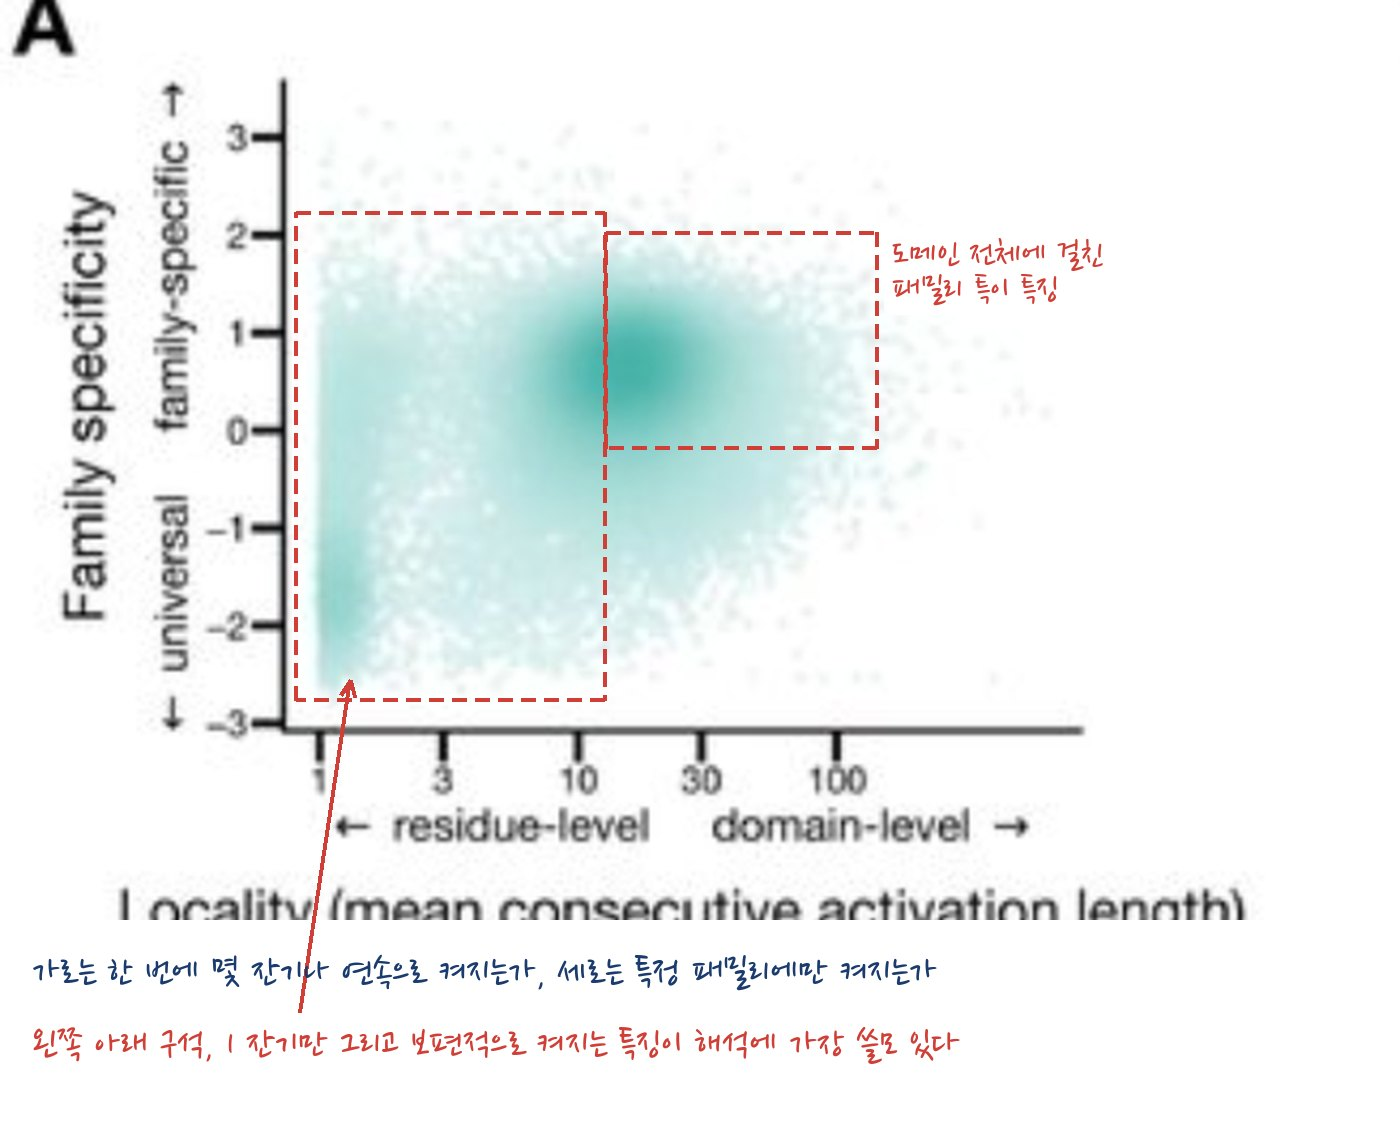
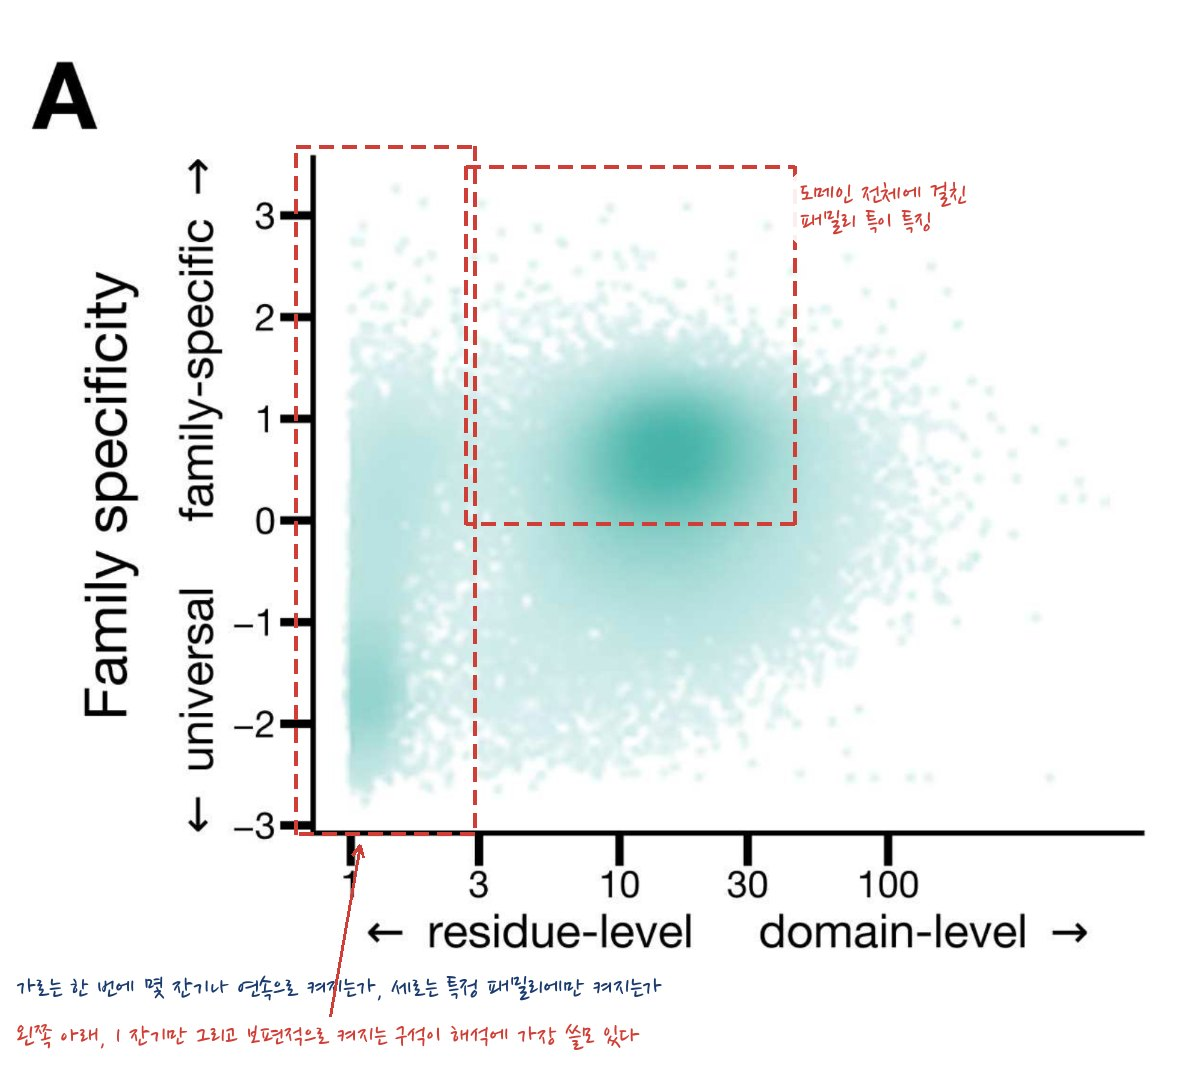
Re-capture the SAE figures from the PDF at higher resolution
The HTML page serves Figure 4 as a 988 px JPEG, which left panel labels and
structure detail soft. Captured the same panels from the PDF (page 11) in
Chrome's viewer at 400-500% instead, where the figure is still vector.

- Fig 4A, 4C, 4D re-rendered: 1200-1500 px of real detail, up from 340-990
- Fig 4E split into two figures (the P-loop ladder, and CAMK1 with the four
  families) so neither hits the 720 px height cap and shrinks
- annotations redrawn to match the new geometry

The workspace proxy blocks biorxiv.org, so the PDF was read in the browser
rather than downloaded.

Claude-Session: https://claude.ai/code/session_01WeuVKTz2XfxiKwtoJS4U2K

diff --git a/content/posts/_drafts/esmc-sae/tools/annot_pdf.py b/content/posts/_drafts/esmc-sae/tools/annot_pdf.py
@@ -1,0 +1,91 @@
+"""Annotate the high-resolution PDF captures for the SAE post."""
+import sys
+sys.path.insert(0, "/tmp/gen")
+from ink import *
+
+S = "/tmp/pdfcaps/"
+P = "/home/claude/eden-repo/content/posts/2026-11-12-esmc-sae/imgs/"
+
+
+def room(im, bottom):
+    c = Image.new("RGB", (im.width, im.height + bottom), "white")
+    c.paste(im, (0, 0))
+    return c
+
+
+# ---------------------------------------------------------------- 4A
+im = load(S + "A.png")                      # 1204 x 999
+im = im.crop((0, 0, 1204, 960))
+H0 = im.height
+im = room(im, 130)
+box(im, 1, (300, 150, 470, 830), pad=4, dash=True)
+box(im, 1, (470, 170, 790, 520), pad=4, dash=True)
+memo_w(im, "도메인 전체에 걸친\n패밀리 특이 특징", (800, 180), size=30, col=MK[1])
+memo(im, "가로는 한 번에 몇 잔기나 연속으로 켜지는가, 세로는 특정 패밀리에만 켜지는가",
+     (16, H0 + 14), size=30, col=INK)
+memo(im, "왼쪽 아래, 1 잔기만 그리고 보편적으로 켜지는 구석이 해석에 가장 쓸모 있다",
+     (16, H0 + 62), size=30, col=MK[1])
+arrow(im, (330, H0 + 56), (360, 845), col=MK[1], w=3, head=13)
+save(im, P + "fig4a_annot.jpg", maxw=1204)
+
+# ---------------------------------------------------------------- 4C
+im = load(S + "C.png")                      # 1568 x 601
+H0 = im.height
+im = room(im, 120)
+underline(im, (70, 0, 1420, 420), col=MK[2], w=3)
+memo(im, "접힘도, 반응도, 친핵체 잔기도 다른 네 단백질. 켜지는 특징은 F6716 하나로 같다",
+     (16, H0 + 12), size=31, col=MK[2])
+memo(im, "서열로도 구조로도 묶이지 않는 넷을 촉매 기하 하나로 묶어낸 셈이다",
+     (16, H0 + 60), size=31, col=INK)
+save(im, P + "fig4c_annot.jpg", maxw=1500)
+
+# ---------------------------------------------------------------- 4D
+im = load(S + "D.png")                      # 1403 x 840
+H0 = im.height
+im = room(im, 120)
+box(im, 3, (590, 420, 900, 740), pad=4, dash=True)
+memo_w(im, "같은 방향을 2^13 에서는 큰 점 하나가,\n2^16 에서는 작은 점 여럿이 덮는다", (930, 300), size=27, col=MK[3])
+memo(im, "F6716 주변을 디코더 공간에서 본 것. 점 크기가 사전 크기다",
+     (16, H0 + 12), size=30, col=INK)
+memo(im, "사전을 키우면 특징 하나가 열 개로 쪼개진다. 개념의 경계는 모델이 정하는가, 사전 크기가 정하는가",
+     (16, H0 + 60), size=30, col=RED)
+save(im, P + "fig4d_annot.jpg", maxw=1400)
+
+# ---------------------------------------------------------------- 4E, two figures
+ladder = load(S + "E_ladder.png")
+H0 = ladder.height
+im = room(ladder, 120)
+marker(im, 4, (36, 34), r=26)
+memo(im, "P-loop 한 군데에 특징 11개가 걸린다",
+     (12, H0 + 12), size=30, col=MK[4])
+memo(im, "위로 갈수록 보편, 아래로 갈수록 키나아제 전용. F3614 와 F119 가 아래 그림의 주인공이다",
+     (12, H0 + 58), size=30, col=INK)
+save(im, P + "fig4e1_annot.jpg", maxw=1257)
+
+camk1 = load(S + "E_camk1.png")
+tk = load(S + "E_tk_agc.png")
+tkl = load(S + "E_tkl_ck1.png")
+
+def fit(img, h):
+    return img.resize((round(img.width * h / img.height), h), Image.LANCZOS)
+
+wr = 1280
+tk = tk.resize((wr, round(tk.height * wr / tk.width)), Image.LANCZOS)
+tkl = tkl.resize((wr, round(tkl.height * wr / tkl.width)), Image.LANCZOS)
+right = Image.new("RGB", (wr, tk.height + 24 + tkl.height), "white")
+right.paste(tk, (0, 0)); right.paste(tkl, (0, tk.height + 24))
+
+h = max(camk1.height, right.height)
+camk1 = fit(camk1, h)
+right = fit(right, h)
+gap = 50
+W = camk1.width + gap + right.width
+im = Image.new("RGB", (W, h + 130), "white")
+im.paste(camk1, (0, 0))
+im.paste(right, (camk1.width + gap, 0))
+marker(im, 5, (camk1.width + gap + 26, 150), r=26)
+memo(im, "촉매부는 일곱 패밀리가 공유하고, 갈리는 곳은 조절부다. CK1a 만 촉매부에서도 다른 특징을 켠다",
+     (12, h + 16), size=34, col=MK[5])
+memo(im, "왼쪽 CAMK1 에서 잔기당 특징 밀도는 알파C 나선 22.4, P-loop 21.3, HRD 20.0, DFG 19.7 순이다",
+     (12, h + 68), size=32, col=INK)
+save(im, P + "fig4e2_annot.jpg", maxw=1600)
